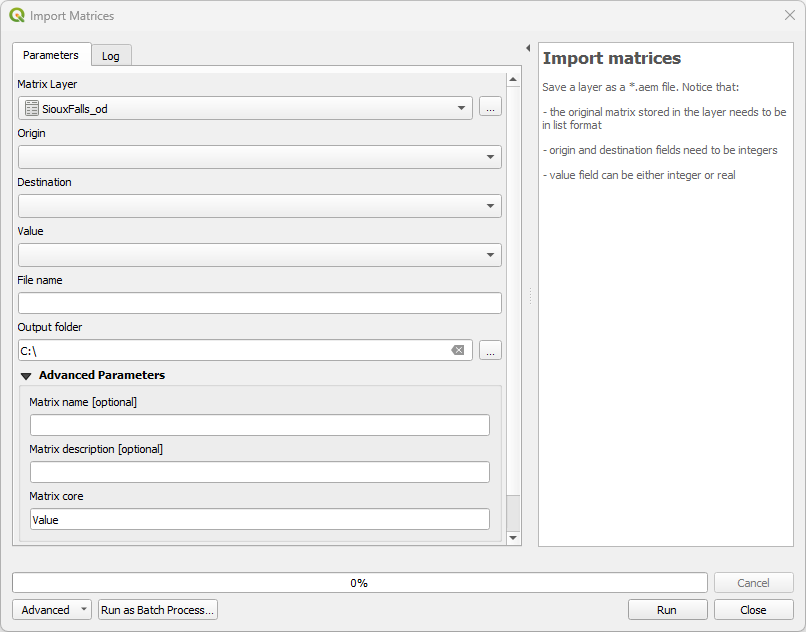
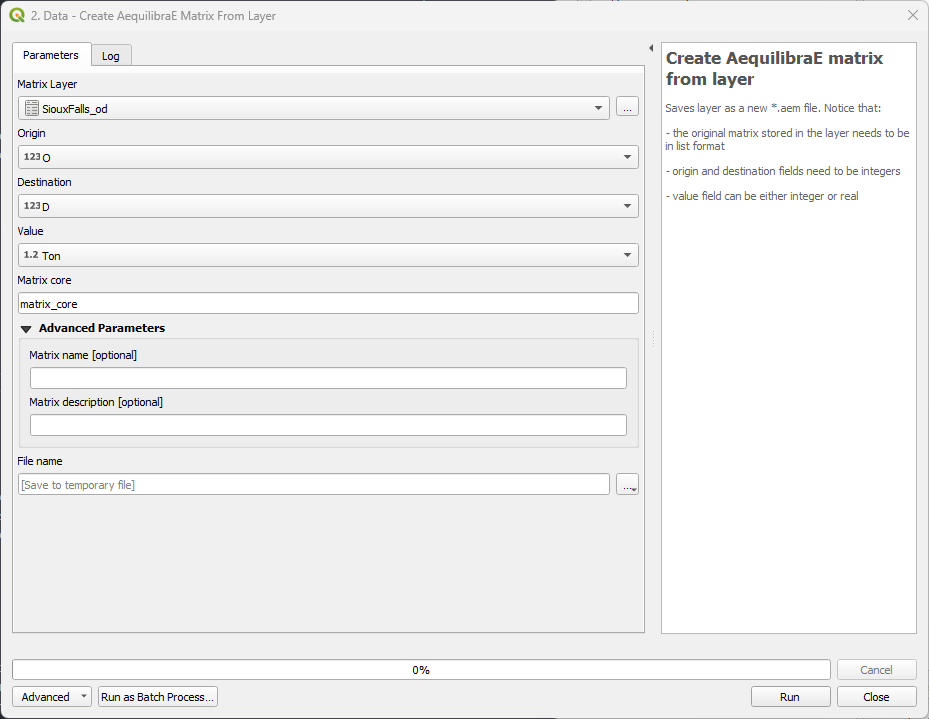
update docs

diff --git a/qaequilibrae/modules/processing_provider/assign_pt_from_yaml.py b/qaequilibrae/modules/processing_provider/assign_pt_from_yaml.py
@@ -106,7 +106,7 @@ class TransitAssignYAML(QgsProcessingAlgorithm):
         return "ptassignfromyaml"
 
     def displayName(self):
-        return self.tr("PT assignment from file")
+        return self.tr("Transit assignment from file")
 
     def group(self):
         return self.tr("4. Public Transport")

diff --git a/qaequilibrae/modules/processing_provider/create_pt_graph.py b/qaequilibrae/modules/processing_provider/create_pt_graph.py
@@ -92,7 +92,7 @@ class CreatePTGraph(QgsProcessingAlgorithm):
         return "createptgraph"
 
     def displayName(self):
-        return self.tr("Create PT graph")
+        return self.tr("Create transit graph")
 
     def group(self):
         return self.tr("4. Public Transport")

diff --git a/docs/source/processing_provider.rst b/docs/source/processing_provider.rst
@@ -29,22 +29,59 @@ menu. Notice that not all AequilibraE functionalities are available for processi
 
 In the following subsections, we'll go over all functionalities.
 
+
+Model Building
+--------------
+Add centroid connectors
+~~~~~~~~~~~~~~~~~~~~~~~
+AequilibraE's processing tool can also add centroid connectors to a project's network. The user
+needs to specify the number of centroids, the modes to be connected, and the project folder.
+The default connection mode is **c** (car).
+
+.. image:: images/processing_provider_centroids.png
+    :align: center
+    :alt: Processing provider add centroid connectors
+
+Add links from layer to project
+~~~~~~~~~~~~~~~~~~~~~~~~~~~~~~~
+    
+.. image:: images/processing_provider_new_links_to_project.png
+    :align: center
+    :alt: Processing provider add new links from layer to project
+
+Add/Renumber nodes from layer
+~~~~~~~~~~~~~~~~~~~~~~~~~~~~~
+One can also add or renumber nodes in an AequilibraE project to match a layer of centroids.
+Just select or import the centroids layer, specify the node ID you want to match, and the output
+folder.
+
+.. image:: images/processing_provider_nodes_from_centroids.png
+    :align: center
+    :alt: Processing provider update nodes from centroids
+
+Create project from link layer
+~~~~~~~~~~~~~~~~~~~~~~~~~~~~~~
+*Create project from link layer* is similar to the widget menu 
+:ref:`Create project from layers <project_from_layers>`, and allows the user to create an AequilibraE 
+project directly from a link layer, without requiring a node layer. With a geometric layer loaded into
+QGIS, select it in the *Links* button, and add the required data in the subsequent menus. Choose the project's
+name and specify the location where you want to save it on your machine.
+
+.. image:: images/processing_provider_project_from_links.png
+    :align: center
+    :alt: Processing provider create project from link layer
+
+Create project from OSM
+~~~~~~~~~~~~~~~~~~~~~~~
+
+.. image:: images/processing_provider_project_from_osm.png
+    :align: center
+    :alt: Processing provider create project from osm
+
 Data
 ----
-Export matrices
-~~~~~~~~~~~~~~~
-The *Export matrices* tool is analogous to the *Export* button in the matrix viewer 
-(see: :ref:`this figure <fig_data_visualize_matrices>` for more details). 
-Its usage is straightforward: select the matrix you want to export, specify the path
-on your machine to store the file, and select its output format. Only \*.aem and \*.omx files can 
-be used as input, and the output format can be either one of \*.aem, \*.omx, or \*.csv.
-
-.. image:: images/processing_provider_export_matrices.png
-    :align: center
-    :alt: Processing provider export matrices
-
-Import matrices
-~~~~~~~~~~~~~~~
+Create AequilibraE Matrix from layer
+~~~~~~~~~~~~~~~~~~~~~~~~~~~~~~~~~~~~
 With *Import matrices*, the user can save an open data layer directly as a \*.aem file.
 This tool is analogous to the widget menu :ref:`importing_matrices`, but it does not
 require an open AequilibraE project to work. To use the tool, the user must have an open layer
@@ -59,39 +96,31 @@ which columns correspond to the origin, destination, and flow, creating a file n
 specifying the destination folder. In the *Advanced Parameters*, the user will find fields to add
 extra information to the AequilibraE matrix they are about to create.
 
-Model Building
---------------
-Add centroid connectors
-~~~~~~~~~~~~~~~~~~~~~~~
-AequilibraE's processing tool can also add centroid connectors to a project's network. The user
-needs to specify the number of centroids, the modes to be connected, and the project folder.
-The default connection mode is **c** (car).
+Export matrices
+~~~~~~~~~~~~~~~
+The *Export matrices* tool is analogous to the *Export* button in the matrix viewer 
+(see: :ref:`this figure <fig_data_visualize_matrices>` for more details). 
+Its usage is straightforward: select the matrix you want to export, specify the path
+on your machine to store the file, and select its output format. Only \*.aem and \*.omx files can 
+be used as input, and the output format can be either one of \*.aem, \*.omx, or \*.csv.
 
-.. image:: images/processing_provider_centroids.png
+.. image:: images/processing_provider_export_matrices.png
     :align: center
-    :alt: Processing provider add centroid connectors
+    :alt: Processing provider export matrices
 
-Create project from link layer
-~~~~~~~~~~~~~~~~~~~~~~~~~~~~~~
-*Create project from link layer* is similar to the widget menu 
-:ref:`Create project from layers <project_from_layers>`, and allows the user to create an AequilibraE 
-project directly from a link layer, without requiring a node layer. With a geometric layer loaded into
-QGIS, select it in the *Links* button, and add the required data in the subsequent menus. Choose the project's
-name and specify the location where you want to save it on your machine.
+Matrix calculator
+~~~~~~~~~~~~~~~~~
 
-.. image:: images/processing_provider_project_from_links.png
+.. image:: images/processing_provider_matrix_calc.png
     :align: center
-    :alt: Processing provider create project from link layer
+    :alt: Processing provider matrix calculator
+    
+Save matrix from layer in existing file
+~~~~~~~~~~~~~~~~~~~~~~~~~~~~~~~~~~~~~~~
 
-Add/Renumber nodes from layer
-~~~~~~~~~~~~~~~~~~~~~~~~~~~~~
-One can also add or renumber nodes in an AequilibraE project to match a layer of centroids.
-Just select or import the centroids layer, specify the node ID you want to match, and the output
-folder.
-
-.. image:: images/processing_provider_nodes_from_centroids.png
+.. image:: images/processing_provider_save_matrix_in_existing_file.png
     :align: center
-    :alt: Processing provider update nodes from centroids
+    :alt: Processing provider save matrix in existing file
 
 Paths and assignment
 --------------------
@@ -132,7 +161,45 @@ an example of a valid YAML configuration.
 
 Public Transport
 ----------------
+Create transit graph
+~~~~~~~~~~~~~~~~~~~~
 
+.. image:: images/processing_provider_create_transit_graph.png
+    :align: center
+    :alt: Processing provider create transit graph
+
+.. code-block:: yaml
+    :caption: Transit graph Configuration
+
+    project_path: path_to_aequilibrae_project
+    result_name: transit_from_yaml
+    matrix_path: path_to_aequilibrae_project/matrices/demand.aem
+    matrix_core: workers  
+    assignment:
+        time_field: trav_time
+        frequency: freq
+        algorithm: os
+    graph:
+        period_id: 1
+        with_outer_stop_transfers: False 
+        with_walking_edges: False
+        blocking_centroid_flows: False
+        connector_method: overlapping_regions
+
+Create GTFS
+~~~~~~~~~~~
+
+.. image:: images/processing_provider_import_gtfs.png
+    :align: center
+    :alt: Processing provider import GTFS
+
+
+Transit assignment from file
+~~~~~~~~~~~~~~~~~~~~~~~~~~~~
+
+.. image:: images/processing_provider_transit_assignment.png
+    :align: center
+    :alt: Processing provider transit assignment from file
 
 .. code-block:: yaml
     :caption: Transit assignment configuration
@@ -167,23 +234,3 @@ Public Transport
     select_links: # optional, name with a list of lists as [[link_id, link_direction]]
         - from_node_1: [[1, 1], [2, 1]]
         - random_nodes: [[3, 1], [5, 1]]
-
-
-.. code-block:: yaml
-    :caption: Transit graph Configuration
-
-    project_path: path_to_aequilibrae_project
-    result_name: transit_from_yaml
-    matrix_path: path_to_aequilibrae_project/matrices/demand.aem
-    matrix_core: workers  
-    assignment:
-        time_field: trav_time
-        frequency: freq
-        algorithm: os
-    graph:
-        period_id: 1
-        with_outer_stop_transfers: False 
-        with_walking_edges: False
-        blocking_centroid_flows: False
-        connector_method: overlapping_regions
-
